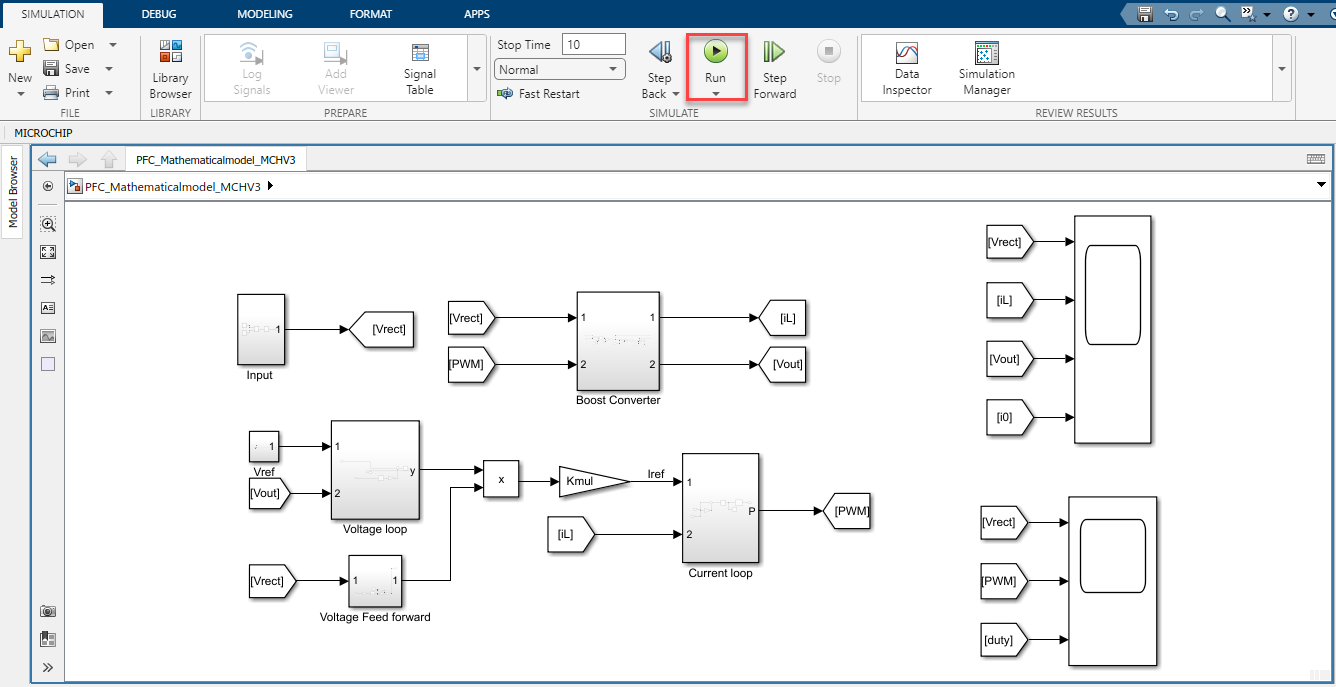
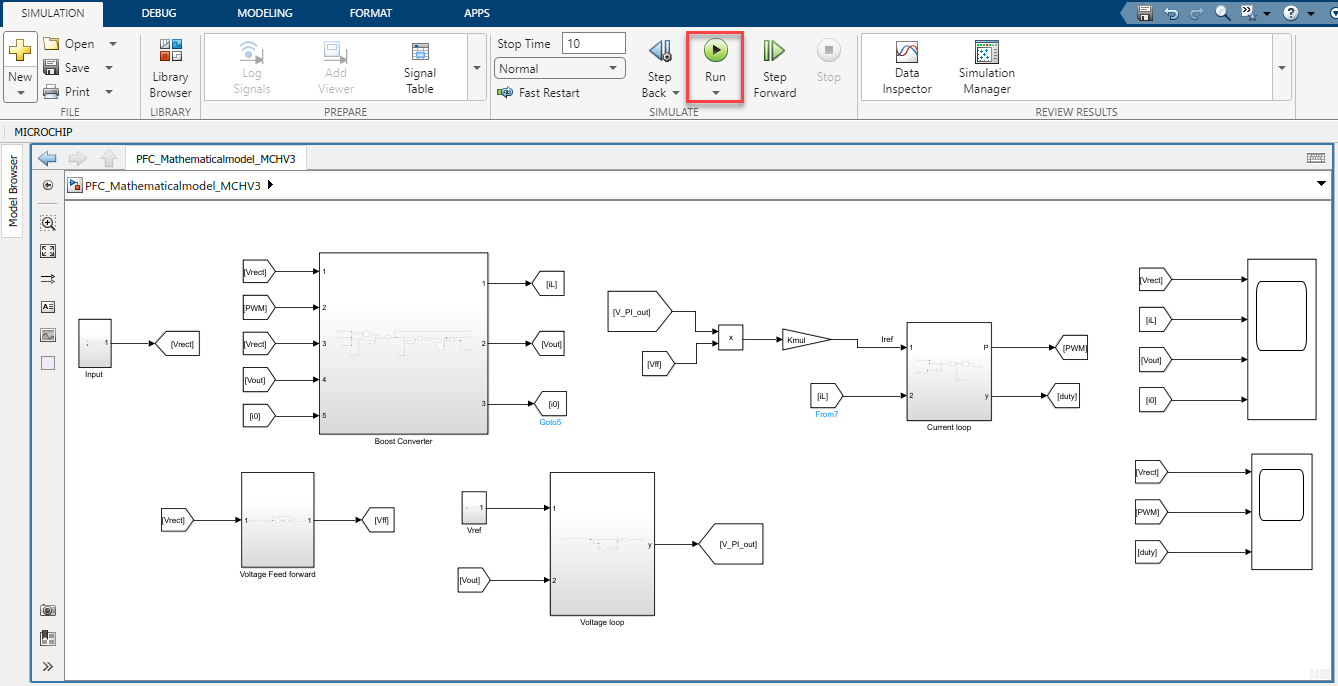
Model subsystems are created. Removed the intermediate steps and comments of compensator coefficient calculations. Readme is updated.

diff --git a/matlab-mchv3-pfc/PFC_Mathematicalmodel_MCHV3_data.m b/matlab-mchv3-pfc/PFC_Mathematicalmodel_MCHV3_data.m
@@ -11,7 +11,6 @@
  s = tf('s');
 
 %% Simulation Parameters
-
 %% Set circuit parameters
 Po = 1000;                          % Output Power of the converter
 Vout = 380;                         % Output Voltage
@@ -25,79 +24,59 @@ C = 3*470e-6;                       % Output Capacitance
 R = (Vout^2)/Po;                    % Equivalent load Resistance
 
 %% Set PWM Switching frequency
-
 fsw = 80e3;                         % PWM frequency
-T_pwm = 1/fsw;                      % PWM switching time period
+T_pwm = 1/fsw;                      
 %% Set Sample Ratio/Sample Times
-Isr = 1;                            % Inner Loop Sampling Ratio
-Osr = 16;                           % Outer Loop Sampling Ratio
-Tsi = Isr / fsw;                    % Sampling time in sec for Current Loop
-Tsv = Osr / fsw;                    % Sampling time in sec for Voltage Loop
+Isr = 1;                            
+Osr = 16;                           
+Tsi = Isr / fsw;                  
+Tsv = Osr / fsw;                    
 
 %% Set Base Values for Gains
 Ibase = 21.3;                       % Ibase
 Vbase = 453;                        % Vbase 
 
-KiL = 1/Ibase;                       % Current sensing gain
-Kvo = 1/Vbase;                       % DC bus voltage sensing gain
-Kvin = 1/Vbase;                      % Feed-forward voltage sensing gain
-Kmul = Vpk_min/(2*Vbase);            % Multiplier gain
+KiL = 1/Ibase;                      
+Kvo = 1/Vbase;                      
+Kvin = 1/Vbase;                     
+Kmul = Vpk_min/(2*Vbase);           
 
 %% Set Control System Parameters
-fc_i = fsw/10;                      % Inner Loop Desired crossover frequency in Hz 
-fc_v = 10;                          % Outer Loop Cross over frequency in Hz
+fc_i = fsw/10;                      
+fc_v = 10;                          
 
 %% Set up Soft Start/Ramping up the reference voltage for Voltage loop 
-Vref = Vout;                        % Reference Voltage
-Vout_init = Vin_pk;                 % Initial Voltage
-T_rise = 0.20;                     % Rise up time
-Slope = (Vref-Vout_init)/T_rise;    % Slope 
-
+Vref = Vout;                        
+Vout_init = Vin_pk;                 
+T_rise = 0.20;                    
+Slope = (Vref-Vout_init)/T_rise;    
 
 %% Current Loop Control (Inductor current Transfer function)[ IL / d]
 Gid = Vout/(s*L);
 
 %% Current loop compensator calculation
-fz_i = fc_i/10;                             % Zero frequency in Hz
-Tz_i = 1/(2*pi*fz_i);
+fz_i = fc_i/10;                             
 
-Gci = (2*pi*fc_i*L)/(KiL*Vout);             % Gain Value
+Gci = (2*pi*fc_i*L)/(KiL*Vout);            
 
 Kp_i = Gci;                        
-Ki_i = Kp_i/Tz_i;
+Ki_i = Kp_i*2*pi*fz_i;
 
 Gic_comp = Kp_i+Ki_i/s;
 Gicl = Gid*Gic_comp*KiL;
 
-%% The coefficients for the discrete current controller
-Kp_id = Kp_i;                        
-Ki_id = Ki_i*Tsi;
-
 %% Voltage Loop Control (Inductor current Transfer function)[ IL / d]
 Gvc = (2*Kmul)/(Kvin*KiL*C*Vout*s);
 %% Voltage loop compensator calculation
-fz_v = 1;                                            % Zero frequency in Hz
-Tz_v = 1/(2*pi*fz_v);
+fz_v = 1;                                            
 
-Gcv = (C*Vout*2*pi*fc_v*Kvin*KiL)/(Kvo*2*Kmul);      % Gain Value
+Gcv = (C*Vout*2*pi*fc_v*Kvin*KiL)/(Kvo*2*Kmul);     
 
 Kp_v = Gcv;
-Ki_v = Kp_v/Tz_v;
+Ki_v = Kp_v*2*pi*fz_v;
 
 Gvc_comp = Kp_v+Ki_v/s;
 Gvcl = (Gvc*Gvc_comp*Kvo);
-
-%% The coefficients for the discrete voltage controller
-Kp_vd = Kp_v;
-Ki_vd = Ki_v*Tsv;
-
-%% Display the Values
-
-fprintf('Kp_v = %f\n', Kp_vd);
-fprintf('Ki_v = %f\n', Ki_vd);
-fprintf('Kp_i = %f\n', Kp_id);
-fprintf('Ki_i = %f\n', Ki_id);
-fprintf('Kmul = %f\n', Kmul*32767);
 
 %% Bode plot settings
  P = bodeoptions;

diff --git a/README.md b/README.md
@@ -1,46 +1,34 @@
 ![image](images/microchip.png) 
-# Demonstration Readme for Mathematical Model of Single-Stage Boost Power Factor Correction Converter using MATLAB and Simulink
+# MATLAB-Simulink model of Single-Stage Boost Power Factor Correction Converter
 
 ## 1. INTRODUCTION
-The design of switched-mode power supply (SMPS) for different power applications is a significant concern in industries. The quality of the power consumed should be taken care of during the design, which demands a near unity power factor (PF) to be maintained. Applying a power factor correction(PFC) converter is one of the methods of improving the power quality, and it has become an essential part of power supplies and drives. Controllers are required along with the converter to achieve good PF. The compensator design is the major issue in the implementation of PFC. This work mainly discusses the design for a Single Stage Boost PFC converter. A mathematical model is also developed by using MATLAB software.
+This document describes how to configure and run the MATLAB-Simulink model of Single-Stage Boost Power Factor Correction Converter.
+
+The Microchip dsPICDEM™ MCHV-3 Development Board [DM330023-3](https://www.microchip.com/en-us/development-tool/dm330023-3) includes a front-end Single-Stage Boost Power Factor Correction Unit and a High-Voltage Three-Phase Motor Control Inverter.
+By default, the model is configured to simulate the Power Correction Converter in the  dsPICDEM™ MCHV-3 Development Board.
 
 ## 2.	SUGGESTED DEMONSTRATION REQUIREMENTS
 ### 2.1 MATLAB Model Required for the Demonstration
 -  MATLAB model can be cloned or downloaded as zip file from the Github repository ([link](https://github.com/microchip-pic-avr-solutions/matlab-mchv3-pfc)).
 
-### 2.2	Software Tools Used for Testing the MATLAB/Simulink Model
+### 2.2	Software Tools Required for the Demonstration
 1.	MATLAB R2022a
 
-> **NOTE:**</br>
->The software used for testing the model during release is listed above. It is recommended to use the version listed above or later versions for building the model.
-
-### 2.3	Hardware Tools Required for the Demonstration
-- dsPICDEM™ MCHV-3 Development Board [DM330023-3](https://www.microchip.com/en-us/development-tool/dm330023-3)
-
-> **NOTE:**</br>
->In this document, hereinafter High-Voltage Motor Control Development Board selected for setting up the demonstration is referred as Development Board. 
-
-> **NOTE:**</br>
->All items listed under this section Hardware Tools Required for the Demonstration are available at [microchip DIRECT](https://www.microchipdirect.com/).
-
-
-
 ## 3.	BASIC DEMONSTRATION
-Follow the below instructions step-by-step, to set up and run the PFC demo application:
+Follow the below instructions step-by-step, to set up and run the MATLAB and Simulink model of power factor correction converter
 
-1. Launch MATLAB (refer the section [“2.2 Sofware Tools Used for Testing the MATLAB/Simulink Model"](#22-software-tools-used-for-testing-the-matlabsimulink-model)).
-2. Open the folder downloaded from the repository, in which MATLAB files are saved (refer the section ["2.1 MATLAB Model Required for the Demonstration"](#21-matlab-model-required-for-the-demonstration)).
+1. Launch MATLAB R2022a 
+2. Open the folder downloaded from the [Github repository](https://github.com/microchip-pic-avr-solutions/matlab-mchv3-pfc)
 
     <p align="left" >
-    <img  src="images/dem1.png"></p>
+    <img  src="images/dem1.png">
 
-3. Double click and open the .m file. This .m file contains the configuration parameters required for running the PFC.Run the file by clicking the **Run** icon and wait till all variables gets loaded on the **Workspace** tab.
+3. Double-click and open the **PFC_Mathematicalmodel_MCHV3_data.m** file from the folder. This **.m file** contains the configuration parameters required for running the model. Execute the file by clicking the **Run** icon and wait until all the variables are loaded in the **Workspace** tab.
 
     <p align="left">
-      <img  src="images/dem2.png"></p>
-    </p>
+      <img  src="images/dem2.png">
 
-4. Double click on the PFC Simulink model.
+4. Double click on the **PFC_Mathematicalmodel_MCHV3.slx** from the folder to open the Simulink model.
 
     <p align="left">
       <img  src="images/dem3.png">
@@ -50,25 +38,23 @@ Follow the below instructions step-by-step, to set up and run the PFC demo appli
     <p align="left">
       <img  src="images/dem4.png">
 
-6. Simulink Scope is used to plot the signals.
+6. Double click on the **Scope** to view the input and output signals in the system.
 
     <p align="left">
       <img  src="images/dem5.png">
 
+    Example plots are shown below:
     <p align="left">
       <img  src="images/dem8.png"> 
 
     <p align="left">
       <img  src="images/dem9.png">   
 
-7. Variable load is configured in the model to see the dynamic perfomance of the system where the load can be varied by using a manual switch.
+7. **Variable load** subsystem can be used to test the model under different load conditions to check the dynamic performance.
 
     <p align="left">
       <img  src="images/dem6.png">
 
-8. Similarly, the variation with respect to the input voltage is also incorporated in the model where input voltage can be varied by using a manual switch.
+8. **Input subsystem** is provided with two input sources ,and it can be used to vary the applied input voltage to the model.
     <p align="left">
       <img  src="images/dem7.png">
-
-
-REFERENCES
